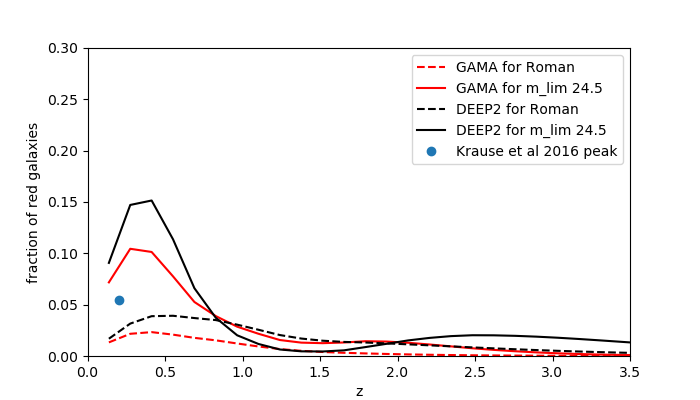
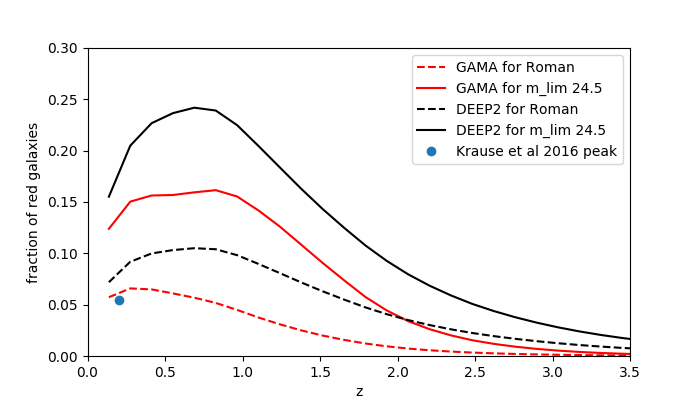
Test plots for IA model

diff --git a/la_model/luminosity_dependance.py b/la_model/luminosity_dependance.py
@@ -353,6 +353,42 @@ def test():
     # plt.yscale("log")
     # plt.savefig("test.png")
 
+
+    #another plot just of the fraction we actually use:
+    #testrun calculating A and red fraction for GAMA case in Krause et al 2016
+    #all galaxies case, GAMA case
+    phi_star_0 = 9.4e-3 #(h/Mpc)^3 
+    M_star = -20.70   #+5*np.log(0.7)#weird h factor but I think I do not have to add that here. TODO
+    alpha = -1.23
+    P=1.8
+    Q = 0.7
+    phi_all = Luminosity_function(phi_star_0,M_star, alpha,P,Q, h)###
+    phi_star_0 = 1.1e-2 #(h/Mpc)^3 
+    M_star = -20.34 #+5*np.log(0.7) #TODO
+    alpha = -0.57
+    P=-1.2 
+    Q = 1.8
+    
+    phi_red = Luminosity_function(phi_star_0,M_star, alpha,P,Q, h)###
+
+    m_lim = 25.3 
+    #print("testing with m_lim = 27.5 in r band for Roman HLS survey as in Krause et al 2016")
+    L_lim_all = calculate_L_lim(m_lim, D_L, k_corr, e_corr,h,galaxy_type="Sa")
+    L_lim_red = calculate_L_lim(m_lim, D_L, k_corr, e_corr,h,galaxy_type="Sa")
+
+    #print("here are the limiting Luminosities, they should be between 1e30 and 1e40 and increasing")
+    #print(L_lim_all["L_lim"])
+    f_red,red,all = red_fraction(L_lim_red,L_lim_all , phi_red, phi_all)
+    plt.figure(figsize=(7,4))
+    plt.plot(f_red["z"],f_red["f_red"],"--", color="red", label="GAMA, m_r,lim=25.3")
+    plt.xlabel("z")
+    plt.ylabel("fraction of red galaxies")
+    plt.ylim(0.,0.2)
+    plt.legend()
+    plt.xlim(0,3.5)
+    plt.savefig("Roman_redfraction.png")
+
+
     print("Reached end. Here is a list of errors if any where encountered:")
     print(errors)
 
